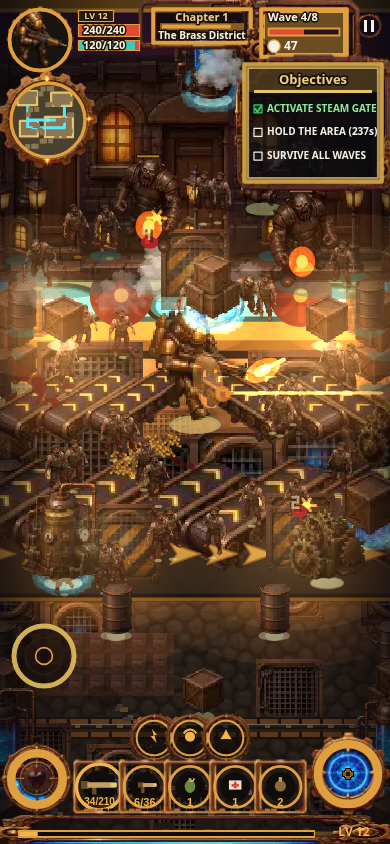
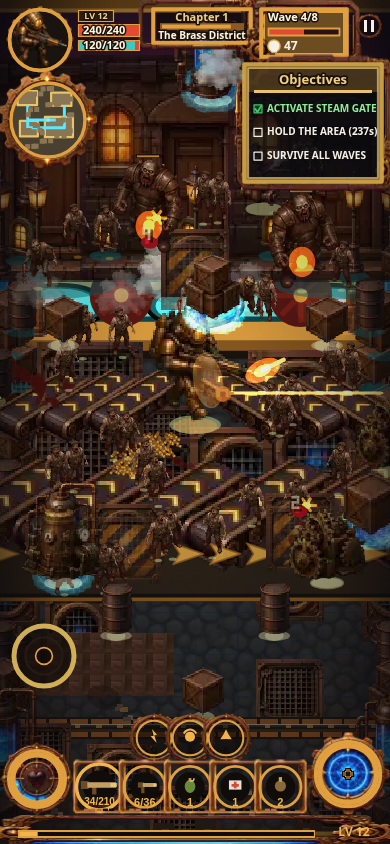
fix(art): drop the post-veil lamp fog
Sasta's r21 gate failed on the pale yellow wash. Lamp light stays under sprites as three 60px pools at 0.25, the slate floor and dusk grade come back, and the HUD bust stays top-left.

diff --git a/src/render/yard-fx.ts b/src/render/yard-fx.ts
@@ -79,12 +79,6 @@ const POOLS = [
   { x: 360, y: 208 },
   { x: 480, y: 204 },
   { x: 600, y: 208 },
-  { x: 400, y: 278 },
-  { x: 560, y: 278 },
-  { x: 368, y: 250 },
-  { x: 592, y: 250 },
-  { x: 404, y: 400 },
-  { x: 556, y: 400 },
 ];
 
 const STEAM_VENTS = [
@@ -272,30 +266,15 @@ function visible(x: number, y: number, camX: number, camY: number, vw: number, v
 }
 
 function lampPool(ctx: CanvasRenderingContext2D, x: number, y: number): void {
-  const g = ctx.createRadialGradient(x, y - 8, 4, x, y + 22, 148);
-  g.addColorStop(0, "rgba(255,210,120,0.7)");
-  g.addColorStop(0.22, "rgba(255,168,72,0.4)");
-  g.addColorStop(0.55, "rgba(210,110,36,0.16)");
+  const g = ctx.createRadialGradient(x, y - 8, 3, x, y + 10, 60);
+  g.addColorStop(0, "rgba(255,196,110,0.25)");
+  g.addColorStop(0.45, "rgba(255,150,56,0.12)");
   g.addColorStop(1, "rgba(10,10,14,0)");
   ctx.save();
   ctx.globalCompositeOperation = "lighter";
   ctx.fillStyle = g;
   ctx.beginPath();
-  ctx.ellipse(x, y + 18, 132, 88, 0, 0, Math.PI * 2);
-  ctx.fill();
-  ctx.restore();
-}
-
-function lampWash(ctx: CanvasRenderingContext2D, x: number, y: number): void {
-  const g = ctx.createRadialGradient(x, y + 8, 8, x, y + 20, 110);
-  g.addColorStop(0, "rgba(255,196,110,0.22)");
-  g.addColorStop(0.45, "rgba(255,150,60,0.1)");
-  g.addColorStop(1, "rgba(10,10,14,0)");
-  ctx.save();
-  ctx.globalCompositeOperation = "lighter";
-  ctx.fillStyle = g;
-  ctx.beginPath();
-  ctx.ellipse(x, y + 16, 96, 62, 0, 0, Math.PI * 2);
+  ctx.ellipse(x, y + 10, 60, 36, 0, 0, Math.PI * 2);
   ctx.fill();
   ctx.restore();
 }
@@ -305,16 +284,16 @@ function lampRay(ctx: CanvasRenderingContext2D, x: number, y: number): void {
   ctx.globalCompositeOperation = "lighter";
   ctx.translate(x, y - 6);
   ctx.rotate(-0.38);
-  const g = ctx.createLinearGradient(0, 0, 0, -118);
-  g.addColorStop(0, "rgba(255,210,130,0.42)");
-  g.addColorStop(0.45, "rgba(255,170,70,0.16)");
+  const g = ctx.createLinearGradient(0, 0, 0, -96);
+  g.addColorStop(0, "rgba(255,196,110,0.25)");
+  g.addColorStop(0.55, "rgba(255,170,70,0.1)");
   g.addColorStop(1, "rgba(255,160,60,0)");
   ctx.fillStyle = g;
   ctx.beginPath();
-  ctx.moveTo(-8, 0);
-  ctx.lineTo(10, 0);
-  ctx.lineTo(36, -118);
-  ctx.lineTo(-30, -118);
+  ctx.moveTo(-7, 0);
+  ctx.lineTo(9, 0);
+  ctx.lineTo(30, -96);
+  ctx.lineTo(-24, -96);
   ctx.closePath();
   ctx.fill();
   ctx.restore();
@@ -365,15 +344,15 @@ function paintBrickWall(ctx: CanvasRenderingContext2D): void {
 }
 
 function doorPool(ctx: CanvasRenderingContext2D, x: number, y: number): void {
-  const g = ctx.createRadialGradient(x, y + 10, 2, x, y + 28, 64);
-  g.addColorStop(0, "rgba(255,196,96,0.52)");
-  g.addColorStop(0.45, "rgba(255,140,48,0.22)");
+  const g = ctx.createRadialGradient(x, y + 10, 2, x, y + 20, 48);
+  g.addColorStop(0, "rgba(255,176,80,0.25)");
+  g.addColorStop(0.5, "rgba(255,130,40,0.12)");
   g.addColorStop(1, "rgba(10,10,14,0)");
   ctx.save();
   ctx.globalCompositeOperation = "lighter";
   ctx.fillStyle = g;
   ctx.beginPath();
-  ctx.ellipse(x, y + 24, 52, 32, 0, 0, Math.PI * 2);
+  ctx.ellipse(x, y + 18, 36, 22, 0, 0, Math.PI * 2);
   ctx.fill();
   ctx.restore();
 }
@@ -706,19 +685,6 @@ export function paintYardLive(
     blitSheet(ctx, steamFrame(tick), vent.x, vent.y - 10);
     ctx.restore();
     steamPuff(ctx, vent.x, vent.y, tick);
-  }
-}
-
-export function paintYardGlow(
-  ctx: CanvasRenderingContext2D,
-  camX: number,
-  camY: number,
-  vw: number,
-  vh: number,
-): void {
-  for (const pool of poolsOf()) {
-    if (!visible(pool.x, pool.y, camX, camY, vw, vh, 80)) continue;
-    lampWash(ctx, pool.x, pool.y);
   }
 }
 

diff --git a/test/style-r21.test.ts b/test/style-r21.test.ts
@@ -83,9 +83,13 @@ describe("r21 phone look", () => {
     expect(yard.includes("fillRect(x + 6, y - 12, len - 12, 24)")).toBe(true);
     expect(yard.includes("#7ae0d4")).toBe(true);
     expect(yard.includes("VALVE_B")).toBe(true);
-    expect(yard.includes("ellipse(x, y + 18, 132, 88")).toBe(true);
-    expect(yard.includes("export function paintYardGlow")).toBe(true);
+    expect(yard.includes("ellipse(x, y + 10, 60, 36")).toBe(true);
+    expect(yard.includes("rgba(255,196,110,0.25)")).toBe(true);
+    expect(yard.includes("export function paintYardGlow")).toBe(false);
+    expect(yard.includes("function lampWash")).toBe(false);
     expect(yard.includes("function lampRay")).toBe(true);
+    const poolBlock = yard.slice(yard.indexOf("const POOLS"), yard.indexOf("const STEAM_VENTS"));
+    expect((poolBlock.match(/\{ x:/g) || []).length).toBe(3);
     expect(yard.includes("FLOOR_DECALS")).toBe(true);
     expect(yard.includes("decal_grate")).toBe(true);
     expect(yard.includes("decal_vent")).toBe(true);
@@ -108,6 +112,7 @@ describe("r21 phone look", () => {
     const draw = readFileSync("src/render/draw.ts", "utf8");
     expect(draw.includes("rgba(4,6,12,0.72)")).toBe(true);
     expect(draw.includes("rgba(24,14,8,0.08)")).toBe(true);
-    expect(draw.includes("rgba(40,18,10,0.05)")).toBe(true);
+    expect(draw.includes("paintYardGlow")).toBe(false);
+    expect(draw.includes("rgba(40,18,10,0.05)")).toBe(false);
   });
 });

diff --git a/src/render/draw.ts b/src/render/draw.ts
@@ -20,7 +20,7 @@ import "./depth";
 import { absorbShake, shakePixels } from "./shake";
 import { drawStageFx, drawYardWindow } from "./stage";
 import { paintHurt, paintVeil } from "./veil";
-import { bindYard, paintYardGlow, paintYardLive } from "./yard-fx";
+import { bindYard, paintYardLive } from "./yard-fx";
 import { reviewWalkOn } from "../shell/review-shot";
 import { zoneAt } from "../sim/zones";
 import { bindGround } from "./ground";
@@ -109,17 +109,11 @@ export function draw(c: CanvasRenderingContext2D, w: World, opts?: { hud?: boole
   if (w.hurtCd > 0) paintHurt(c, w.hurtCd, viewW, viewH);
   const vig = c.createRadialGradient(viewW * 0.5, viewH * 0.48, viewH * 0.16, viewW * 0.5, viewH * 0.5, viewH * 0.86);
   vig.addColorStop(0, "rgba(0,0,0,0)");
-  vig.addColorStop(0.28, "rgba(40,18,10,0.05)");
   vig.addColorStop(0.42, "rgba(24,14,8,0.08)");
   vig.addColorStop(0.7, "rgba(8,8,14,0.4)");
   vig.addColorStop(1, "rgba(4,6,12,0.72)");
   c.fillStyle = vig;
   c.fillRect(0, 0, viewW, viewH);
-  c.save();
-  if (sx !== 0 || sy !== 0) c.translate(sx, sy);
-  c.translate(-camX, -camY);
-  paintYardGlow(c, camX, camY, viewW, viewH);
-  c.restore();
   paintLayers(c, w, LAYER_FRONT);
   if (w.choosing) {
     c.fillStyle = "rgba(8,6,4,0.42)";

diff --git a/test/style-review.test.ts b/test/style-review.test.ts
@@ -85,12 +85,14 @@ describe("visual review gates", () => {
     const draw = readFileSync("src/render/draw.ts", "utf8");
     expect(draw.includes("rgba(4,6,12,0.72)")).toBe(true);
     expect(draw.includes("rgba(24,14,8,0.08)")).toBe(true);
-    expect(draw.includes("paintYardGlow")).toBe(true);
+    expect(draw.includes("paintYardGlow")).toBe(false);
     expect(draw.includes("rgba(6,6,10,0.16)")).toBe(false);
     expect(draw.includes("rgba(220,132,52,0.34)")).toBe(false);
     expect(draw.includes("rgba(255,186,88,0.42)")).toBe(false);
     const yard = readFileSync("src/render/yard-fx.ts", "utf8");
-    expect(yard.includes("ellipse(x, y + 18, 132, 88")).toBe(true);
+    expect(yard.includes("ellipse(x, y + 10, 60, 36")).toBe(true);
+    expect(yard.includes("rgba(255,196,110,0.25)")).toBe(true);
+    expect(yard.includes("function lampWash")).toBe(false);
     expect(yard.includes("function lampRay")).toBe(true);
     expect(yard.includes("decal_vent")).toBe(true);
     expect(yard.includes("valve_steam")).toBe(true);

diff --git a/test/ground.test.ts b/test/ground.test.ts
@@ -185,8 +185,8 @@ describe("yard floor paint", () => {
     const blob = fills.join(" ");
     expect(blob.includes("#5c6e7e")).toBe(false);
     expect(blob.includes("#7f93a4")).toBe(false);
-    expect(/#1c1612|#241810|rgba\(28,16,10/.test(blob)).toBe(true);
-    expect(/#24303c|rgba\(16,24,36/.test(blob)).toBe(false);
+    expect(/#24303c|rgba\(16,24,36/.test(blob)).toBe(true);
+    expect(/#1c1612|#241810|rgba\(28,16,10/.test(blob)).toBe(false);
     expect(/#2a2a30|rgba\(24,24,32/.test(blob)).toBe(false);
     expect(/#c49038|#f0b03a|#fff1c2/.test(blob)).toBe(false);
   });
